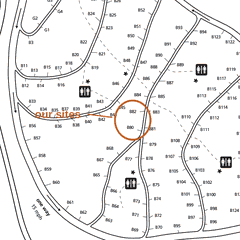
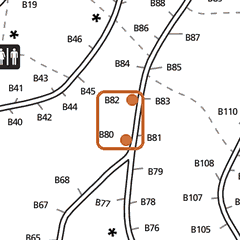
Map: pinch to zoom, and only our two sites marked
The overlay gets a real gesture — usePinchPan implements two-finger
scale about the midpoint, drag to pan, and double-tap, since the app
disables the browser's own pinch. It opens fit-to-screen instead of
fit-width, so the whole loop is visible before you zoom.

The ring that swallowed B45/B81/B83 is replaced by dots on the B080
and B082 site ticks inside a box that touches nothing else; the label
moves out of the image into the overlay caption, where it can't
collide. Thumb recentered on the pair.

Claude-Session: https://claude.ai/code/session_01JDTbmsJ5UKEPaWEYin5Bw2

diff --git a/components/ui/PinchPan.tsx b/components/ui/PinchPan.tsx
@@ -1,0 +1,165 @@
+"use client";
+
+// Pinch-zoom + drag-pan on a surface. The app disables the browser's own
+// pinch (viewport user-scalable=no), so the gesture has to be ours: pointer
+// events, two fingers scale about their midpoint, one finger pans, and a
+// double-tap toggles between fit and a closer look at the tapped point.
+
+import { useCallback, useRef, useState } from "react";
+
+export type Transform = { scale: number; x: number; y: number };
+
+const DOUBLE_TAP_MS = 300;
+const DOUBLE_TAP_SLOP = 24;
+
+export function usePinchPan({
+  min = 1,
+  max = 6,
+  doubleTapScale = 3,
+}: { min?: number; max?: number; doubleTapScale?: number } = {}) {
+  const [t, setT] = useState<Transform>({ scale: 1, x: 0, y: 0 });
+  const surface = useRef<HTMLDivElement | null>(null);
+  const pointers = useRef(new Map<number, { x: number; y: number }>());
+  const pinch = useRef<{ dist: number; scale: number } | null>(null);
+  const lastTap = useRef<{ t: number; x: number; y: number } | null>(null);
+  const moved = useRef(0);
+
+  const clamp = useCallback(
+    (next: Transform): Transform => {
+      const el = surface.current;
+      const scale = Math.min(max, Math.max(min, next.scale));
+      if (!el) return { ...next, scale };
+      // Content is laid out to fit the surface at scale 1, so the overflow at
+      // a given scale is what we're allowed to pan across.
+      const bx = (el.clientWidth * (scale - 1)) / 2;
+      const by = (el.clientHeight * (scale - 1)) / 2;
+      return {
+        scale,
+        x: Math.min(bx, Math.max(-bx, next.x)),
+        y: Math.min(by, Math.max(-by, next.y)),
+      };
+    },
+    [min, max],
+  );
+
+  /** Scales about a point given in surface coordinates. */
+  const zoomTo = useCallback(
+    (scale: number, px: number, py: number) => {
+      setT((prev) => {
+        const el = surface.current;
+        if (!el) return clamp({ ...prev, scale });
+        const cx = el.clientWidth / 2;
+        const cy = el.clientHeight / 2;
+        const k = scale / prev.scale;
+        return clamp({
+          scale,
+          x: px - cx - (px - cx - prev.x) * k,
+          y: py - cy - (py - cy - prev.y) * k,
+        });
+      });
+    },
+    [clamp],
+  );
+
+  const reset = useCallback(() => setT({ scale: 1, x: 0, y: 0 }), []);
+
+  const local = (e: React.PointerEvent) => {
+    const r = surface.current?.getBoundingClientRect();
+    return { x: e.clientX - (r?.left ?? 0), y: e.clientY - (r?.top ?? 0) };
+  };
+
+  const handlers = {
+    onPointerDown: (e: React.PointerEvent) => {
+      (e.currentTarget as HTMLElement).setPointerCapture(e.pointerId);
+      pointers.current.set(e.pointerId, { x: e.clientX, y: e.clientY });
+      if (pointers.current.size === 1) moved.current = 0;
+      if (pointers.current.size === 2) {
+        const [a, b] = [...pointers.current.values()];
+        pinch.current = { dist: Math.hypot(a.x - b.x, a.y - b.y), scale: t.scale };
+      }
+    },
+    onPointerMove: (e: React.PointerEvent) => {
+      const prev = pointers.current.get(e.pointerId);
+      if (!prev) return;
+      pointers.current.set(e.pointerId, { x: e.clientX, y: e.clientY });
+
+      if (pointers.current.size >= 2 && pinch.current) {
+        const [a, b] = [...pointers.current.values()];
+        const dist = Math.hypot(a.x - b.x, a.y - b.y);
+        if (pinch.current.dist > 0) {
+          const r = surface.current?.getBoundingClientRect();
+          const mx = (a.x + b.x) / 2 - (r?.left ?? 0);
+          const my = (a.y + b.y) / 2 - (r?.top ?? 0);
+          zoomTo((dist / pinch.current.dist) * pinch.current.scale, mx, my);
+        }
+        return;
+      }
+
+      const dx = e.clientX - prev.x;
+      const dy = e.clientY - prev.y;
+      moved.current += Math.abs(dx) + Math.abs(dy);
+      setT((cur) => clamp({ ...cur, x: cur.x + dx, y: cur.y + dy }));
+    },
+    onPointerUp: (e: React.PointerEvent) => {
+      const wasPinching = pointers.current.size >= 2;
+      pointers.current.delete(e.pointerId);
+      if (pointers.current.size < 2) pinch.current = null;
+      if (wasPinching || moved.current > DOUBLE_TAP_SLOP) return;
+
+      const { x, y } = local(e);
+      const now = Date.now();
+      const l = lastTap.current;
+      if (
+        l &&
+        now - l.t < DOUBLE_TAP_MS &&
+        Math.hypot(x - l.x, y - l.y) < DOUBLE_TAP_SLOP
+      ) {
+        lastTap.current = null;
+        if (t.scale > min + 0.05) reset();
+        else zoomTo(doubleTapScale, x, y);
+        return;
+      }
+      lastTap.current = { t: now, x, y };
+    },
+    onPointerCancel: (e: React.PointerEvent) => {
+      pointers.current.delete(e.pointerId);
+      if (pointers.current.size < 2) pinch.current = null;
+    },
+  };
+
+  return { t, setT, surface, handlers, reset, zoomTo, clamp };
+}
+
+/** Applies a transform to its children; the parent supplies sizing. */
+export function PinchSurface({
+  t,
+  surface,
+  handlers,
+  className = "",
+  children,
+}: {
+  t: Transform;
+  surface: React.RefObject<HTMLDivElement | null>;
+  handlers: React.ComponentProps<"div">;
+  className?: string;
+  children: React.ReactNode;
+}) {
+  return (
+    <div
+      ref={surface}
+      {...handlers}
+      className={`relative overflow-hidden ${className}`}
+      style={{ touchAction: "none" }}
+    >
+      <div
+        className="w-full h-full"
+        style={{
+          transform: `translate(${t.x}px, ${t.y}px) scale(${t.scale})`,
+          transformOrigin: "center center",
+        }}
+      >
+        {children}
+      </div>
+    </div>
+  );
+}

diff --git a/components/MapLightbox.tsx b/components/MapLightbox.tsx
@@ -1,14 +1,14 @@
 "use client";
 
-// The Blackwoods loop map, full screen. Global pinch zoom is disabled, so
-// zoom is a one-thumb tap: fit-width <-> 2.6x centered on the tapped point.
+// The Blackwoods loop map, full screen: pinch to zoom, drag to pan, double-tap
+// to jump in or back out. The browser's own pinch is disabled app-wide, so the
+// gesture comes from usePinchPan.
 
-import { useEffect, useRef, useState } from "react";
+import { useEffect } from "react";
 import { X } from "lucide-react";
+import { PinchSurface, usePinchPan } from "./ui/PinchPan";
 
 const MAP_SRC = "/maps/blackwoods-map.png";
-const MAP_RATIO = 3024 / 1836;
-const ZOOM = 2.6;
 
 /** Warms the browser cache so the overlay opens with no visible load. */
 export function useMapPrefetch() {
@@ -19,23 +19,7 @@ export function useMapPrefetch() {
 }
 
 export function MapOverlay({ onClose }: { onClose: () => void }) {
-  const [zoomed, setZoomed] = useState(false);
-  const scroller = useRef<HTMLDivElement | null>(null);
-
-  const toggle = (e: React.MouseEvent<HTMLImageElement>) => {
-    const rect = e.currentTarget.getBoundingClientRect();
-    const fx = (e.clientX - rect.left) / rect.width;
-    const fy = (e.clientY - rect.top) / rect.height;
-    const next = !zoomed;
-    setZoomed(next);
-    requestAnimationFrame(() => {
-      const c = scroller.current;
-      if (!c || !next) return;
-      const imgW = c.clientWidth * ZOOM;
-      c.scrollLeft = fx * imgW - c.clientWidth / 2;
-      c.scrollTop = fy * imgW * MAP_RATIO - c.clientHeight / 2;
-    });
-  };
+  const { t, surface, handlers } = usePinchPan({ min: 1, max: 6 });
 
   return (
     <div className="fixed inset-0 z-50 bg-[#23271F]/95">
@@ -46,22 +30,24 @@ export function MapOverlay({ onClose }: { onClose: () => void }) {
       >
         <X size={20} />
       </button>
-      <div ref={scroller} className="w-full h-full overflow-auto overscroll-contain">
-        {/* eslint-disable-next-line @next/next/no-img-element -- repo-hosted map */}
-        <img
-          src={MAP_SRC}
-          alt="Blackwoods campground map"
-          onClick={toggle}
-          className={
-            zoomed
-              ? "block max-w-none h-auto cursor-zoom-out"
-              : "block w-full h-auto cursor-zoom-in mt-14"
-          }
-          style={zoomed ? { width: `${ZOOM * 100}%` } : undefined}
-        />
-      </div>
-      <div className="fixed bottom-3 inset-x-0 text-center font-mono text-[10.5px] text-[#CFCABC] pointer-events-none">
-        tap the map to {zoomed ? "fit" : "zoom"}
+      <PinchSurface t={t} surface={surface} handlers={handlers} className="w-full h-full">
+        <div className="w-full h-full flex items-center justify-center">
+          {/* eslint-disable-next-line @next/next/no-img-element -- repo-hosted map */}
+          <img
+            src={MAP_SRC}
+            alt="Blackwoods campground map"
+            draggable={false}
+            className="max-w-full max-h-full w-auto h-auto select-none"
+          />
+        </div>
+      </PinchSurface>
+      <div className="fixed bottom-3 inset-x-0 text-center pointer-events-none">
+        <div className="font-mono text-[11px] text-blaze">
+          B080 + B082 — boxed in orange
+        </div>
+        <div className="font-mono text-[10.5px] text-[#CFCABC] mt-1">
+          pinch to zoom · drag to move
+        </div>
       </div>
     </div>
   );
